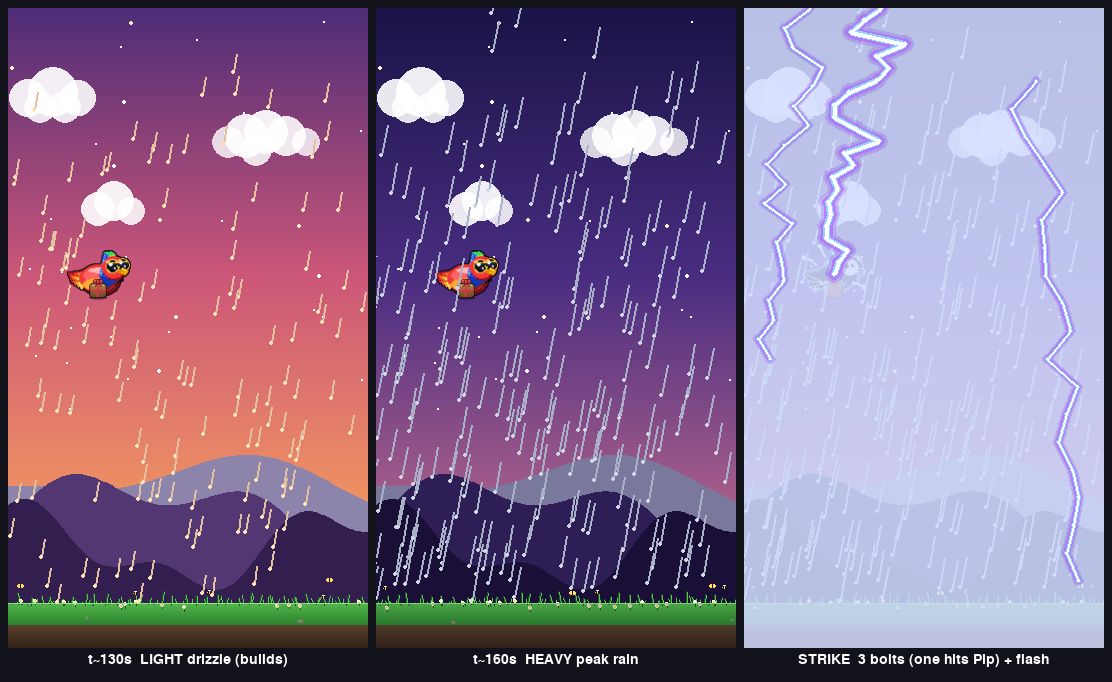
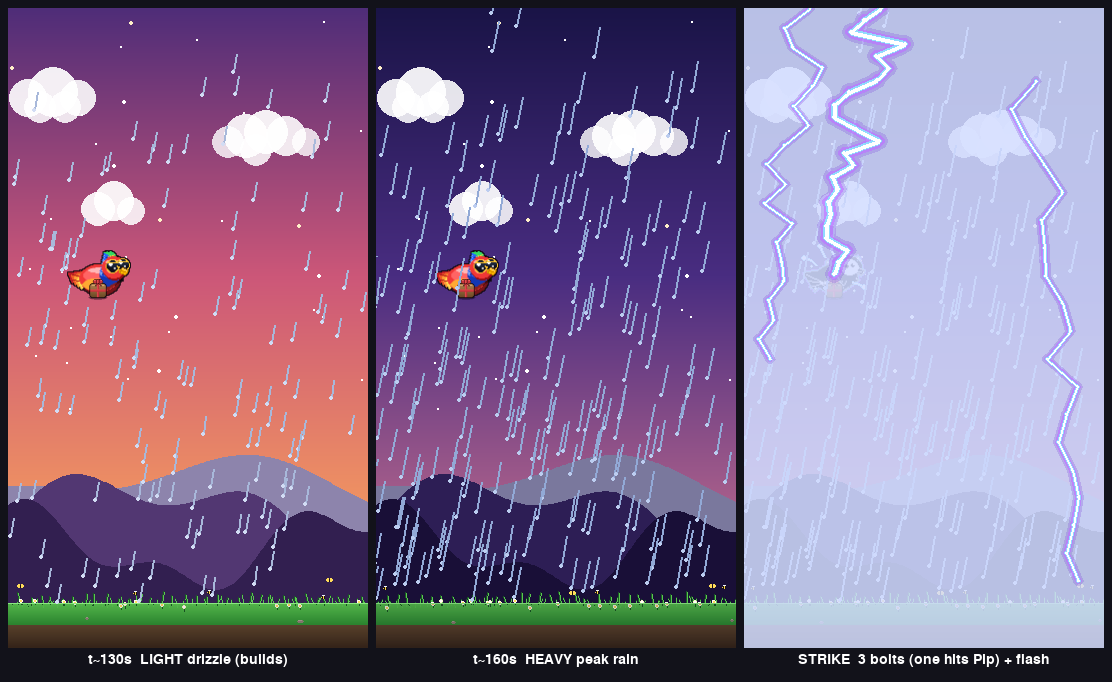
Thunderstorm: blue-dominant raindrops + lightweight strike render
Raindrops now keep a dominant bluish tone across the whole storm
(both rain_color endpoints are blue-dominant), shifting only slightly
with the sky instead of swinging orange -> white -> blue.

The lightning strike no longer allocates a full-screen SRCALPHA
surface per glow-layer per bolt every frame (~12/frame for the 3-bolt
strike). It now paints all bolts onto one reused, cleared scratch
surface and blits once, removing the per-frame allocation churn that
caused the frame hitch at the strike. The bolt look is unchanged.

https://claude.ai/code/session_01JWYQYgqQbSfQKYb7zu7YPg

diff --git a/game/scenes.py b/game/scenes.py
@@ -23,6 +23,10 @@ from game.lottery_slot import draw_reveal as _draw_lottery_reveal
 # overlay shuts itself off.
 _OPENER_SCROLL_END = int(World.SPAWN_GRACE * SCROLL_BASE)
 
+# Reused scratch surface for the lightning bolt so the strike doesn't allocate
+# (and full-screen-blit) one surface per glow-layer per bolt every frame.
+_bolt_scratch_cache: dict = {}
+
 
 def _draw_lightning_bolt(surf, strike):
     """Paint the storm-jolt lightning — the main bolt that strikes Pip plus
@@ -48,6 +52,14 @@ def _draw_lightning_bolt(surf, strike):
         t = raw_t / (1.0 - HOLD)
     t_glow = t ** 0.7
     sw, sh = surf.get_size()
+    # All layers/bolts paint onto one reused scratch surface (cleared per
+    # frame) so the strike does a single blit instead of one full-screen
+    # allocation + blit per layer per bolt.
+    scratch = _bolt_scratch_cache.get((sw, sh))
+    if scratch is None:
+        scratch = pygame.Surface((sw, sh), pygame.SRCALPHA)
+        _bolt_scratch_cache[(sw, sh)] = scratch
+    scratch.fill((0, 0, 0, 0))
     for bi, path in enumerate(paths):
         ws = 1.0 if bi == 0 else 0.65            # flanking bolts thinner
         layers = (
@@ -57,15 +69,16 @@ def _draw_lightning_bolt(surf, strike):
             ((255, 255, 255), int(255 * t),      max(1, int(4 * ws))),
         )
         pts = [(int(x), int(y)) for (x, y) in path]
+        # Widest/dimmest first so the bright core overwrites the centre and
+        # the wide glow stays at the edges.
         for col, alpha, width in layers:
             if alpha <= 0 or width <= 0:
                 continue
-            layer = pygame.Surface((sw, sh), pygame.SRCALPHA)
-            pygame.draw.lines(layer, (*col, alpha), False, pts, width)
+            pygame.draw.lines(scratch, (*col, alpha), False, pts, width)
             joint_r = max(1, width // 2)
             for px, py in pts:
-                pygame.draw.circle(layer, (*col, alpha), (px, py), joint_r)
-            surf.blit(layer, (0, 0))
+                pygame.draw.circle(scratch, (*col, alpha), (px, py), joint_r)
+    surf.blit(scratch, (0, 0))
 
 
 def _draw_opener(surf: pygame.Surface, world) -> None:

diff --git a/game/weather.py b/game/weather.py
@@ -50,9 +50,11 @@ def rain_intensity(phase: float) -> float:
 
 
 def rain_color(phase: float):
-    """Blend between warm amber (sunset) and cool slate (dusk/night)."""
-    warm = (255, 200, 140)
-    cool = (140, 170, 220)
+    """Always blue/grey-dominant raindrops, shifting only slightly with the
+    sky — a faintly warm-lit blue at the sunset drizzle, a deeper slate-blue
+    at the dusk-storm peak."""
+    warm = (180, 192, 220)   # sunset-lit, still clearly blue-dominant
+    cool = (135, 162, 212)   # cool slate-blue at the storm peak
     # Closer to 0.35 → warmer; closer to 0.50+ → cooler
     t_cool = min(1.0, max(0.0, (phase - 0.35) / 0.2))
     return (
